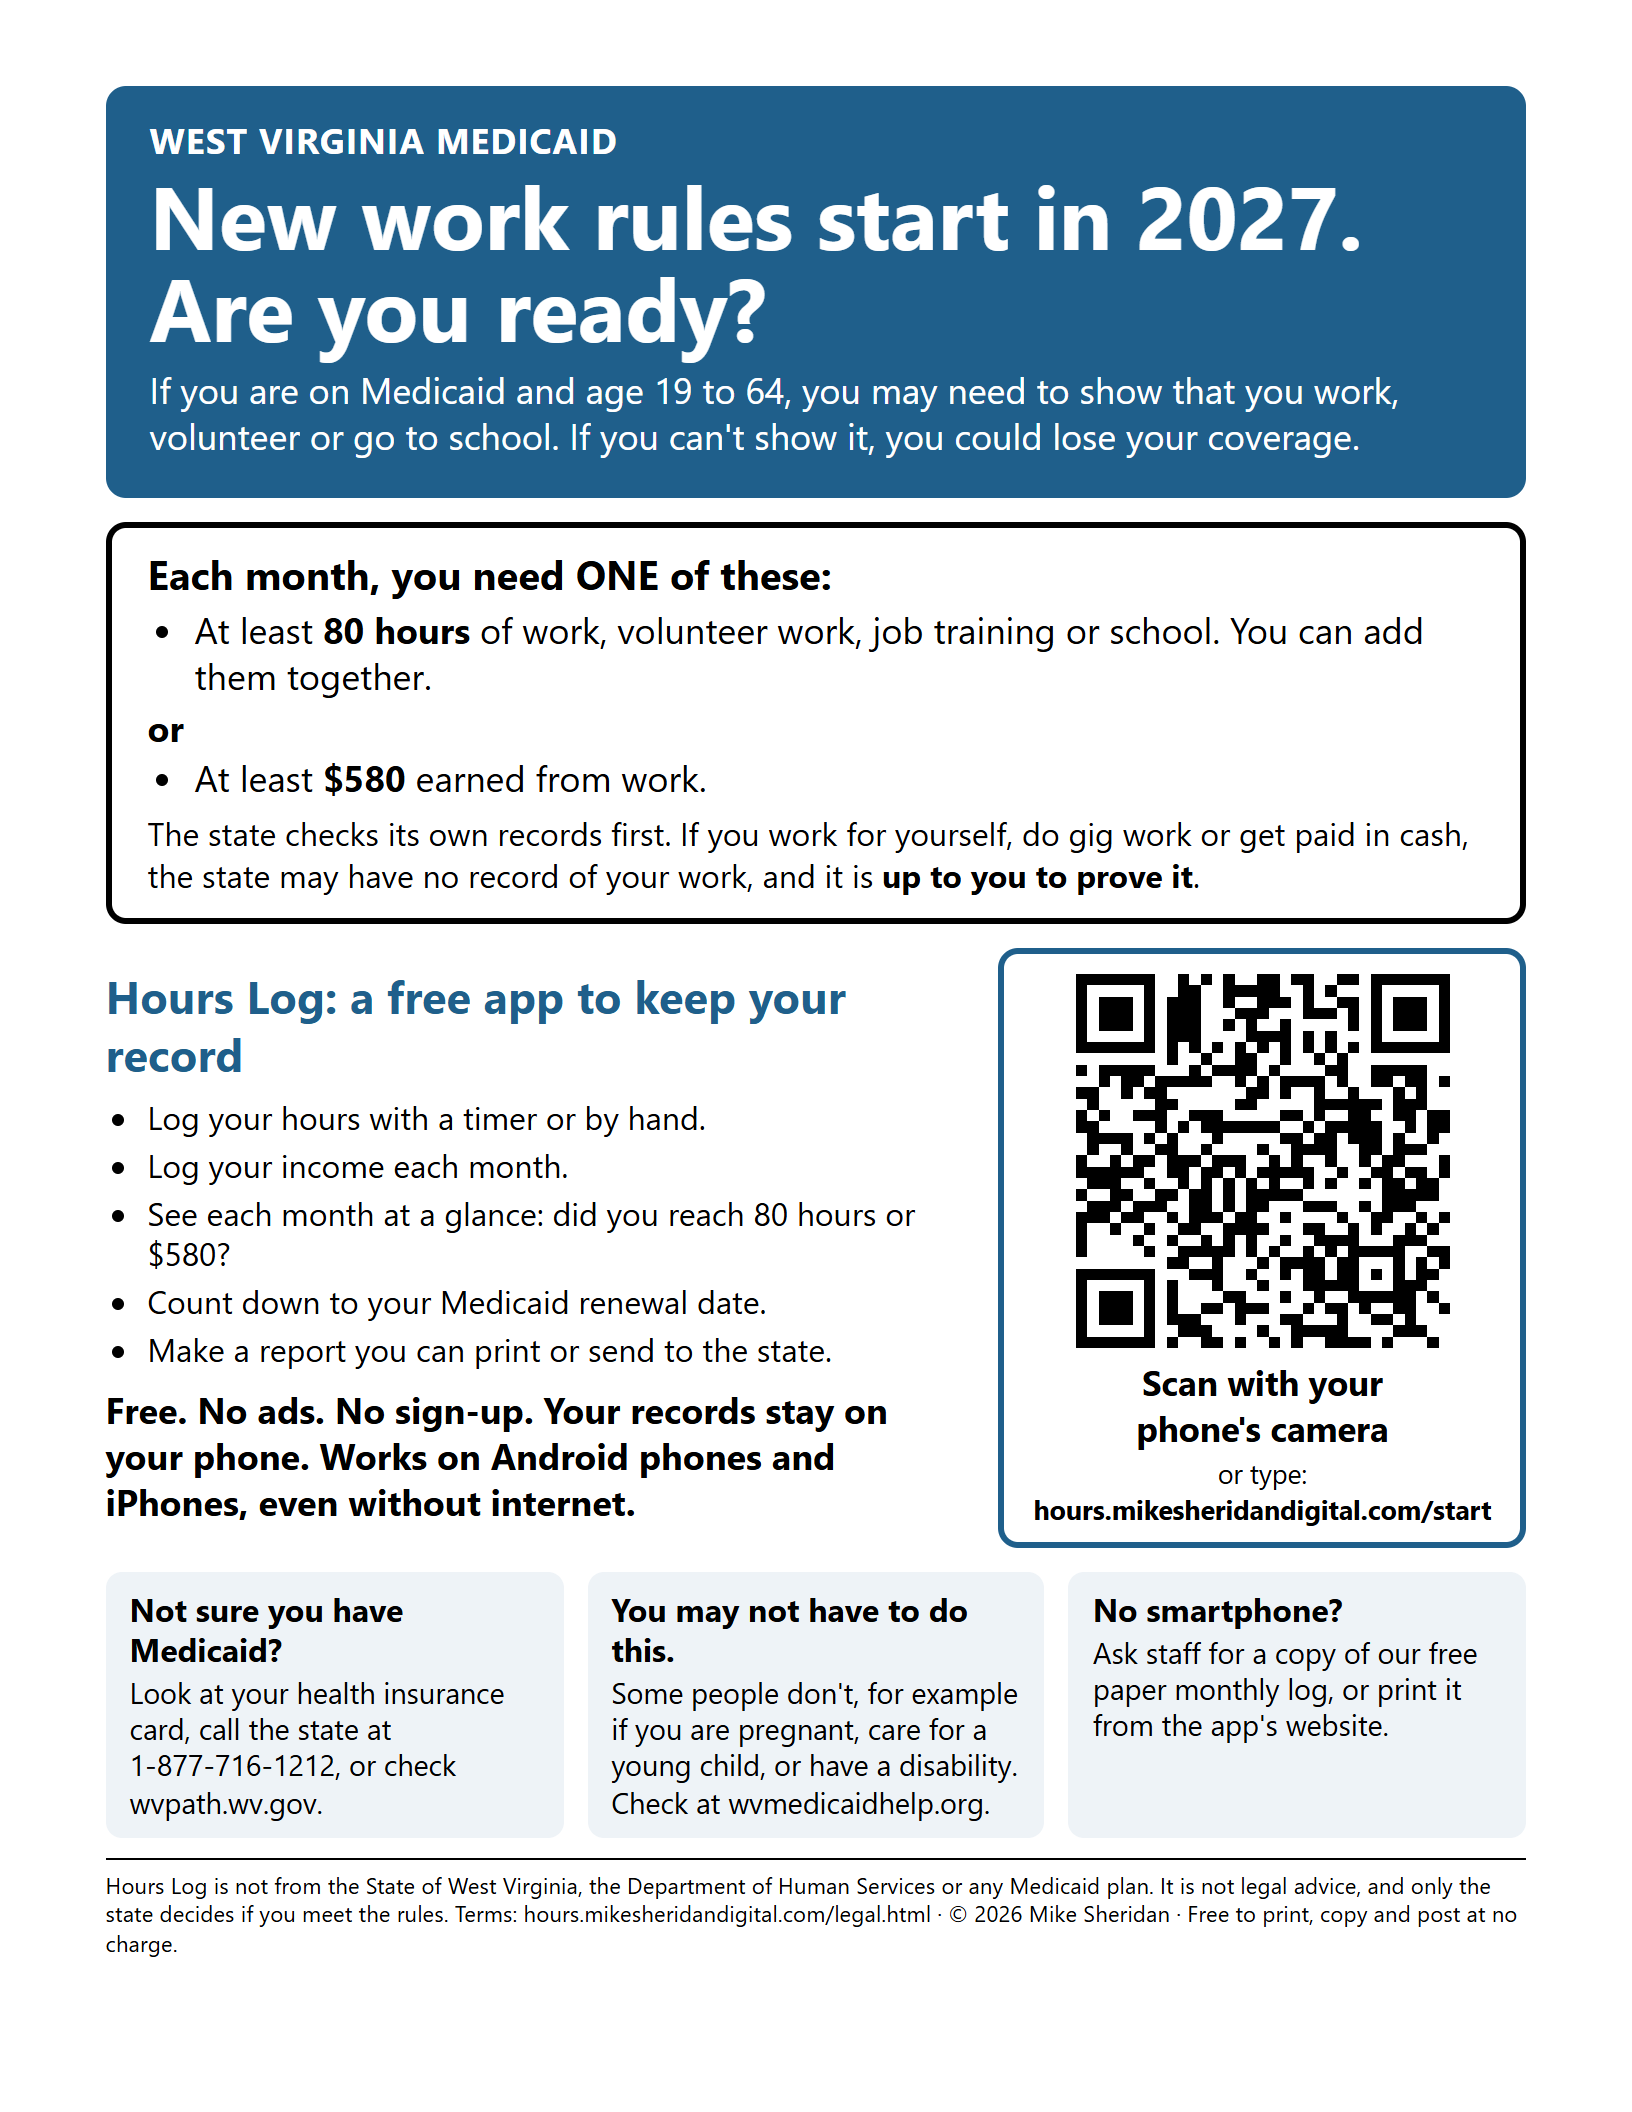
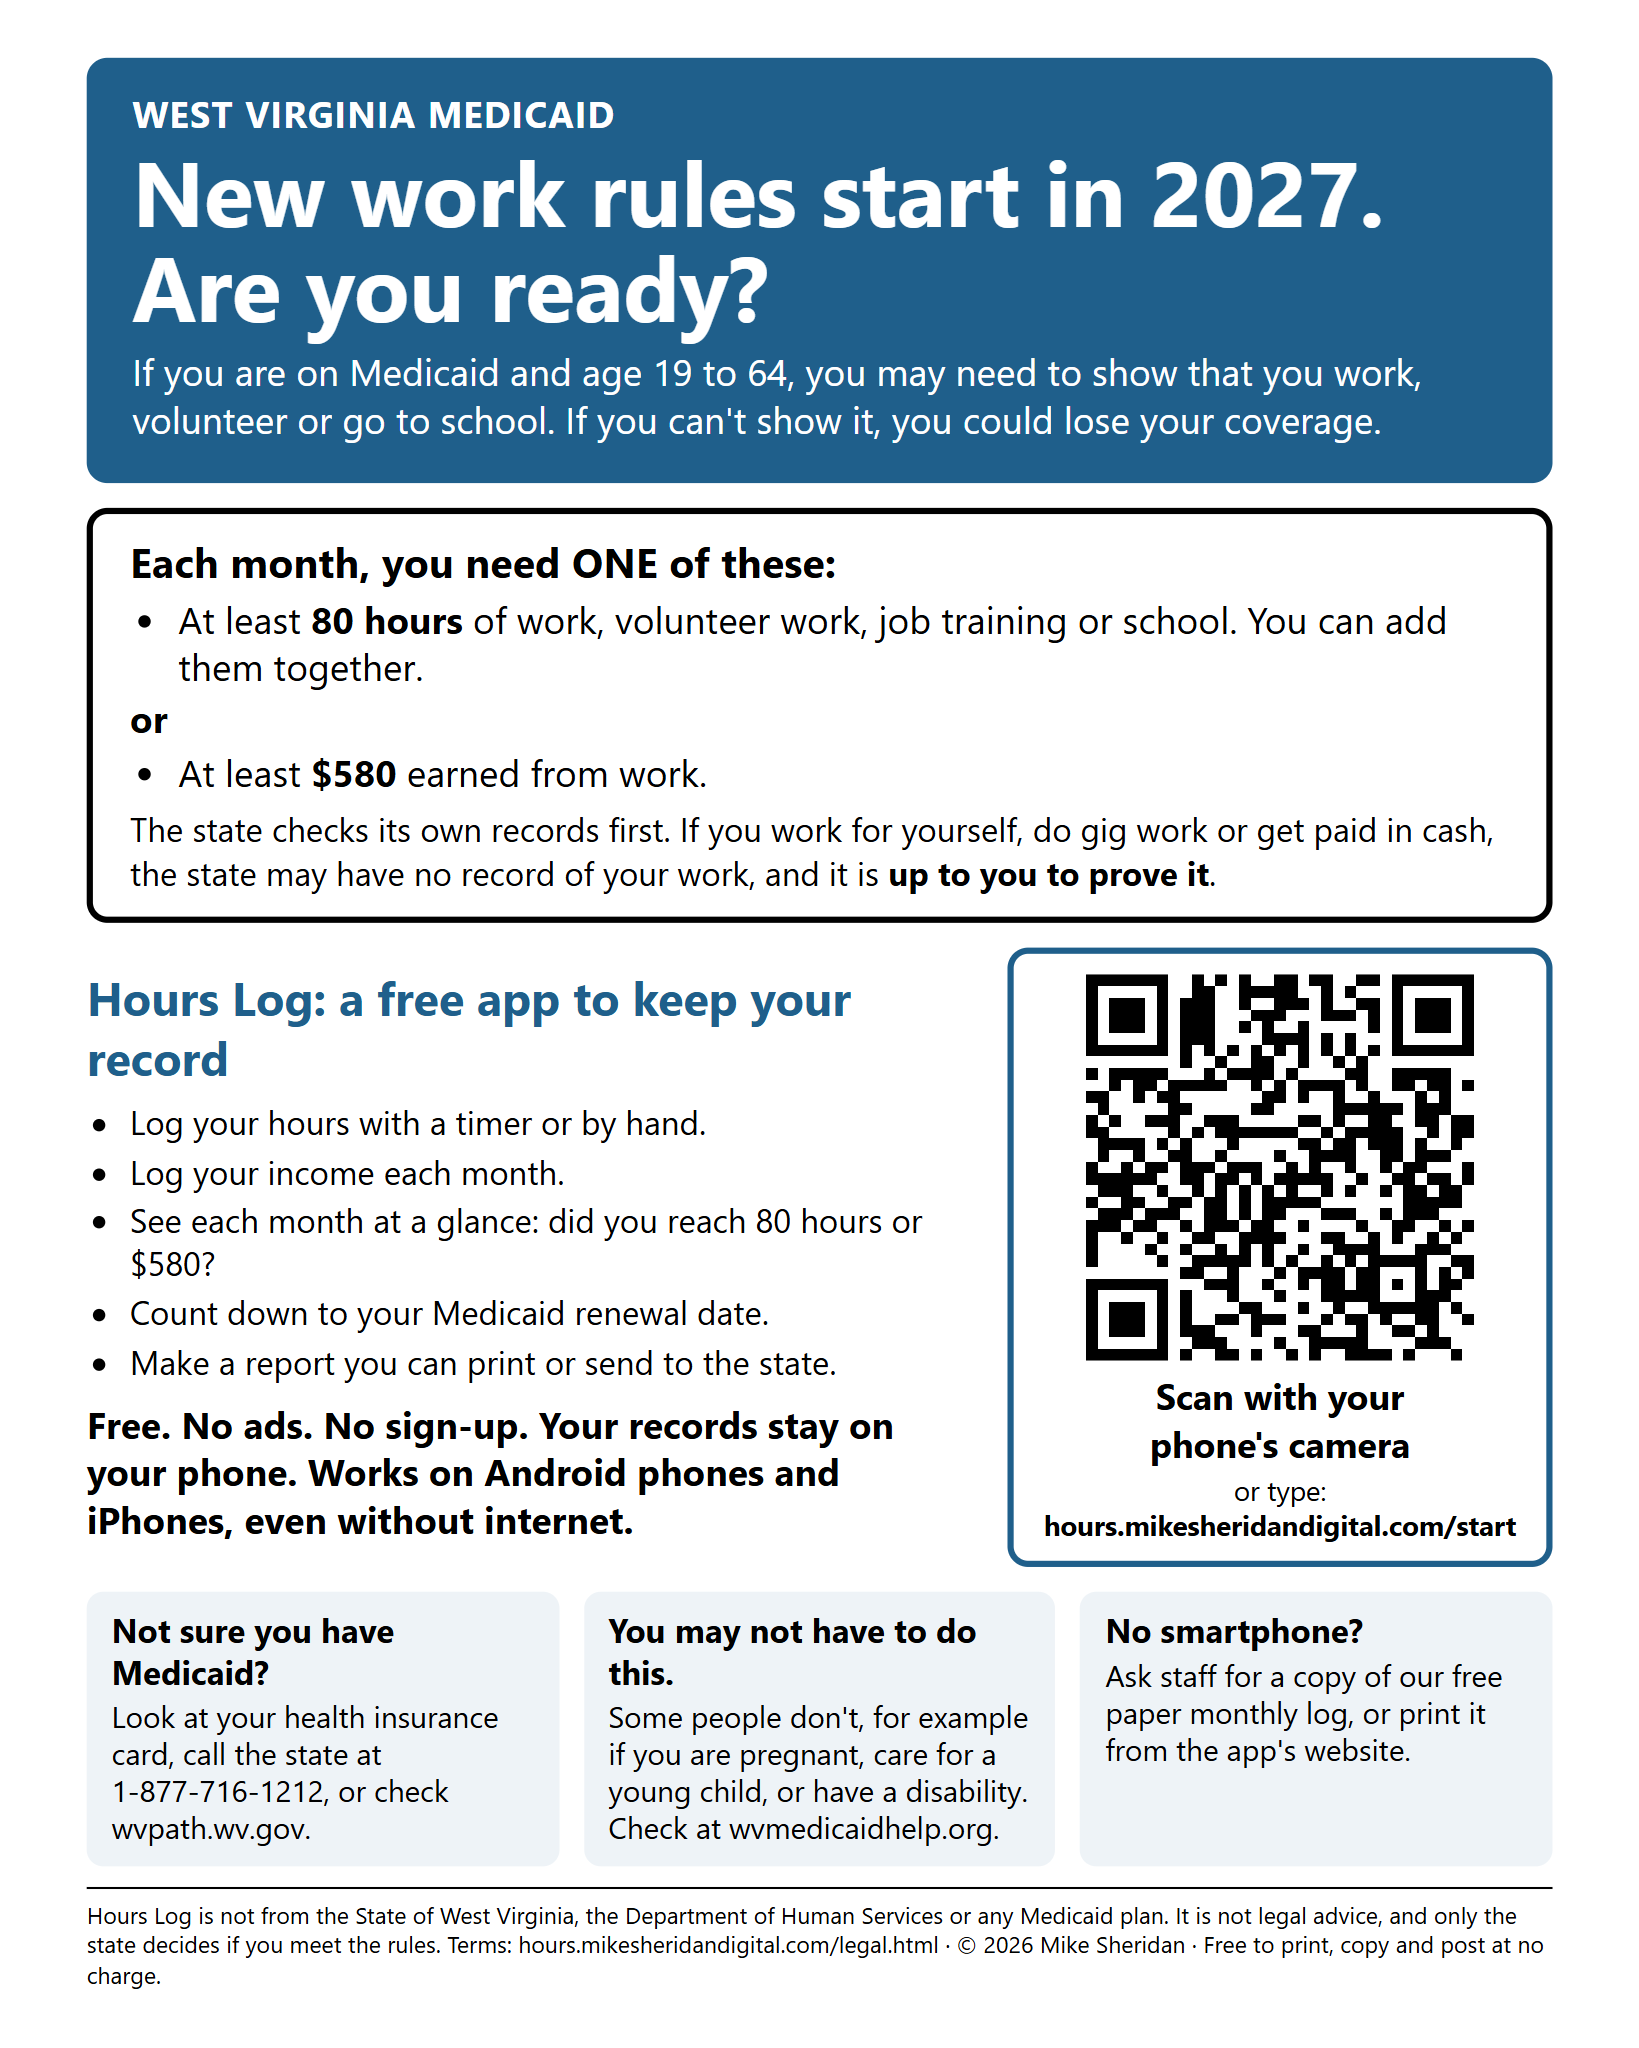
Poster picture: 1639x2048 (4:5), thinner margins so the poster fills more of the image on Facebook
Claude-Session: https://claude.ai/code/session_01NHGoQ2a6JTTVW6ApcypEza

Changed region(s): [[0.0312, 0.0, 0.9688, 0.9688]]

diff --git a/public/poster/index.html b/public/poster/index.html
@@ -15,8 +15,8 @@
   <meta property="og:title" content="Free poster: new WV Medicaid work rules and the Hours Log app" />
   <meta property="og:description" content="One page, regular letter paper, works in black and white. Free to print, copy and put up." />
   <meta property="og:image" content="https://hours.mikesheridandigital.com/flyer.png" />
-  <meta property="og:image:width" content="1632" />
-  <meta property="og:image:height" content="2112" />
+  <meta property="og:image:width" content="1639" />
+  <meta property="og:image:height" content="2048" />
   <meta property="og:image:alt" content="Poster: New work rules start in 2027. Are you ready? With a QR code to the free Hours Log app." />
   <style>
     :root { --bg: #f4f6f8; --card: #fff; --text: #14212b; --muted: #536471; --brand: #1f5f8b; --on-brand: #fff; --line: #d6dee5; color-scheme: light dark; }
@@ -59,7 +59,7 @@
   <p>Help people on Medicaid get ready for the new work rules. Print this poster and put it up at a library, office, church, clinic or agency. It is free to print, copy and post.</p>
 
   <a class="preview" href="/flyer.png" aria-label="See the poster full size">
-    <img src="/flyer.png" width="1632" height="2112" alt="The poster. Title: New work rules start in 2027. Are you ready? It explains that each month you need 80 hours of work, volunteer work, job training or school, or $580 earned from work. It describes the free Hours Log app and has a QR code to hours.mikesheridandigital.com/start." />
+    <img src="/flyer.png" width="1639" height="2048" alt="The poster. Title: New work rules start in 2027. Are you ready? It explains that each month you need 80 hours of work, volunteer work, job training or school, or $580 earned from work. It describes the free Hours Log app and has a QR code to hours.mikesheridandigital.com/start." />
   </a>
 
   <a class="btn primary" href="/flyer.pdf" download="Hours-Log-poster.pdf">Download the poster to print (PDF)</a>
